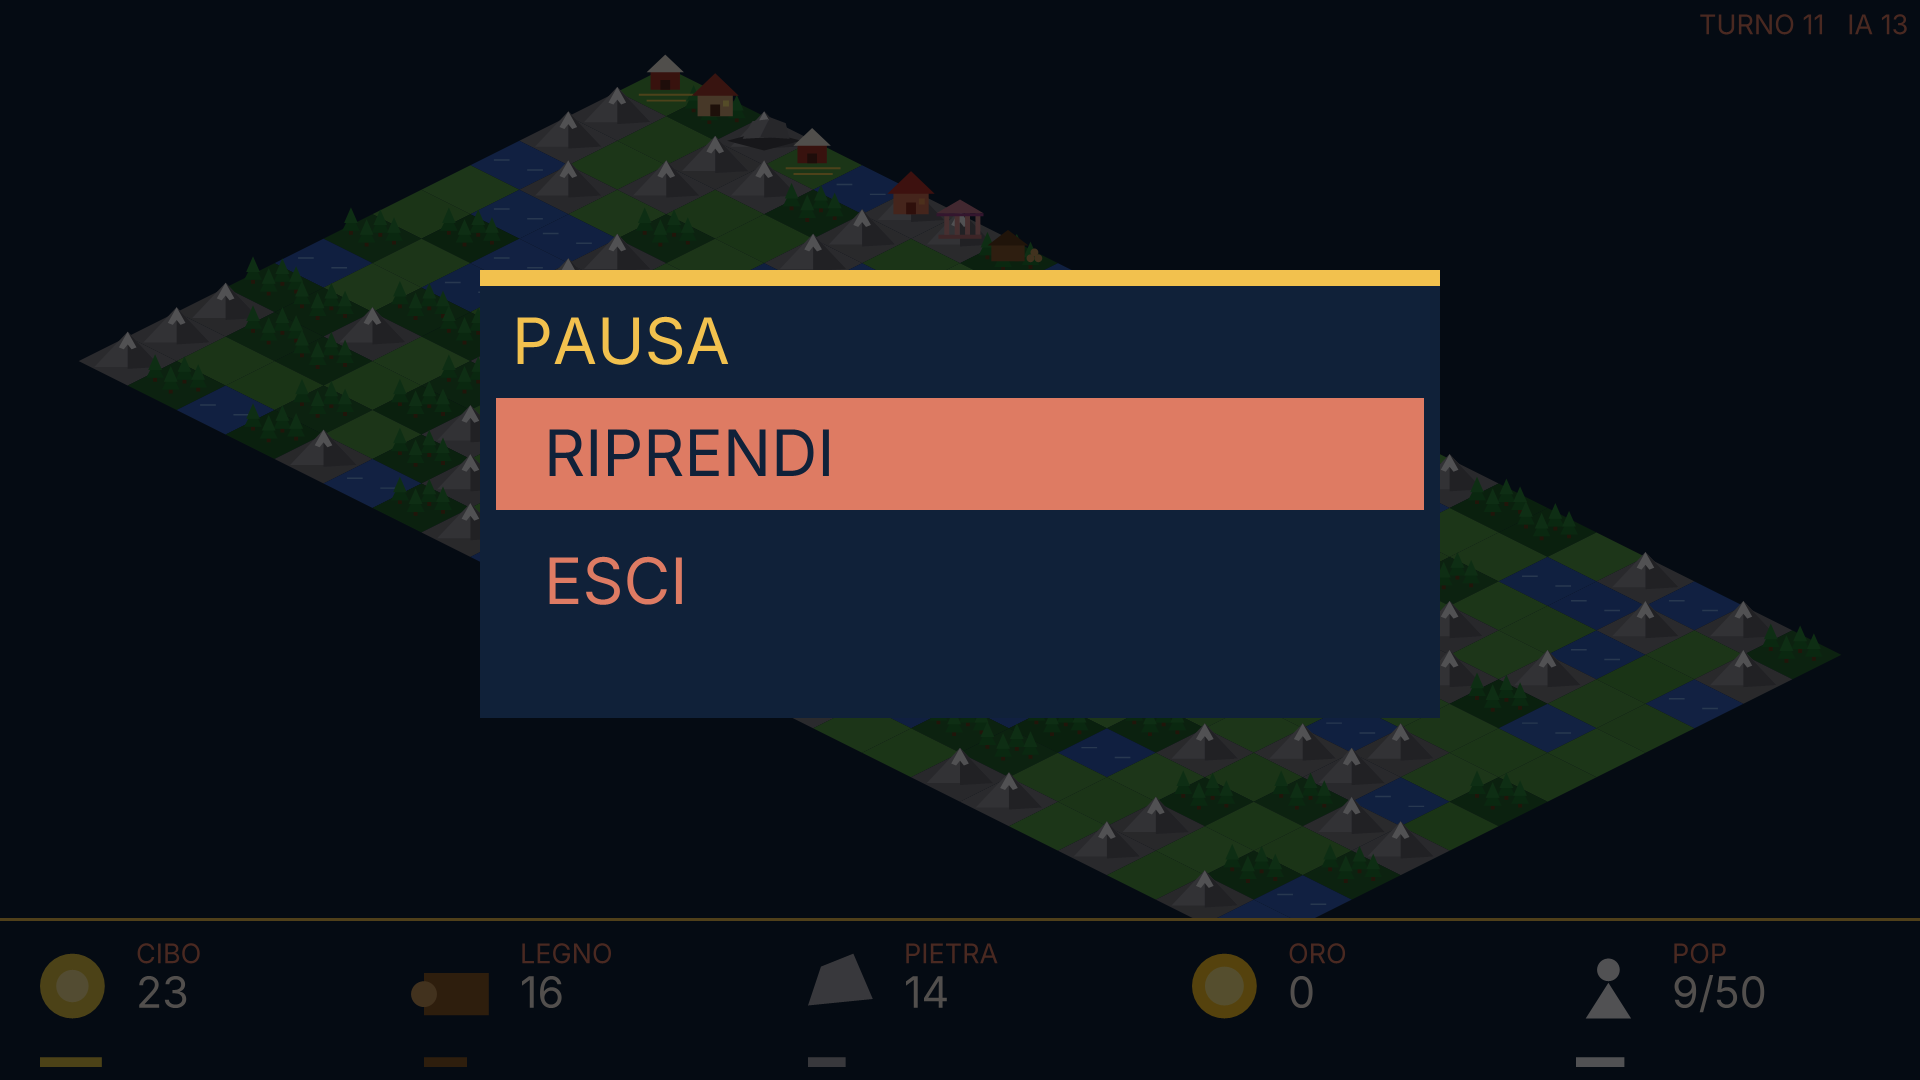
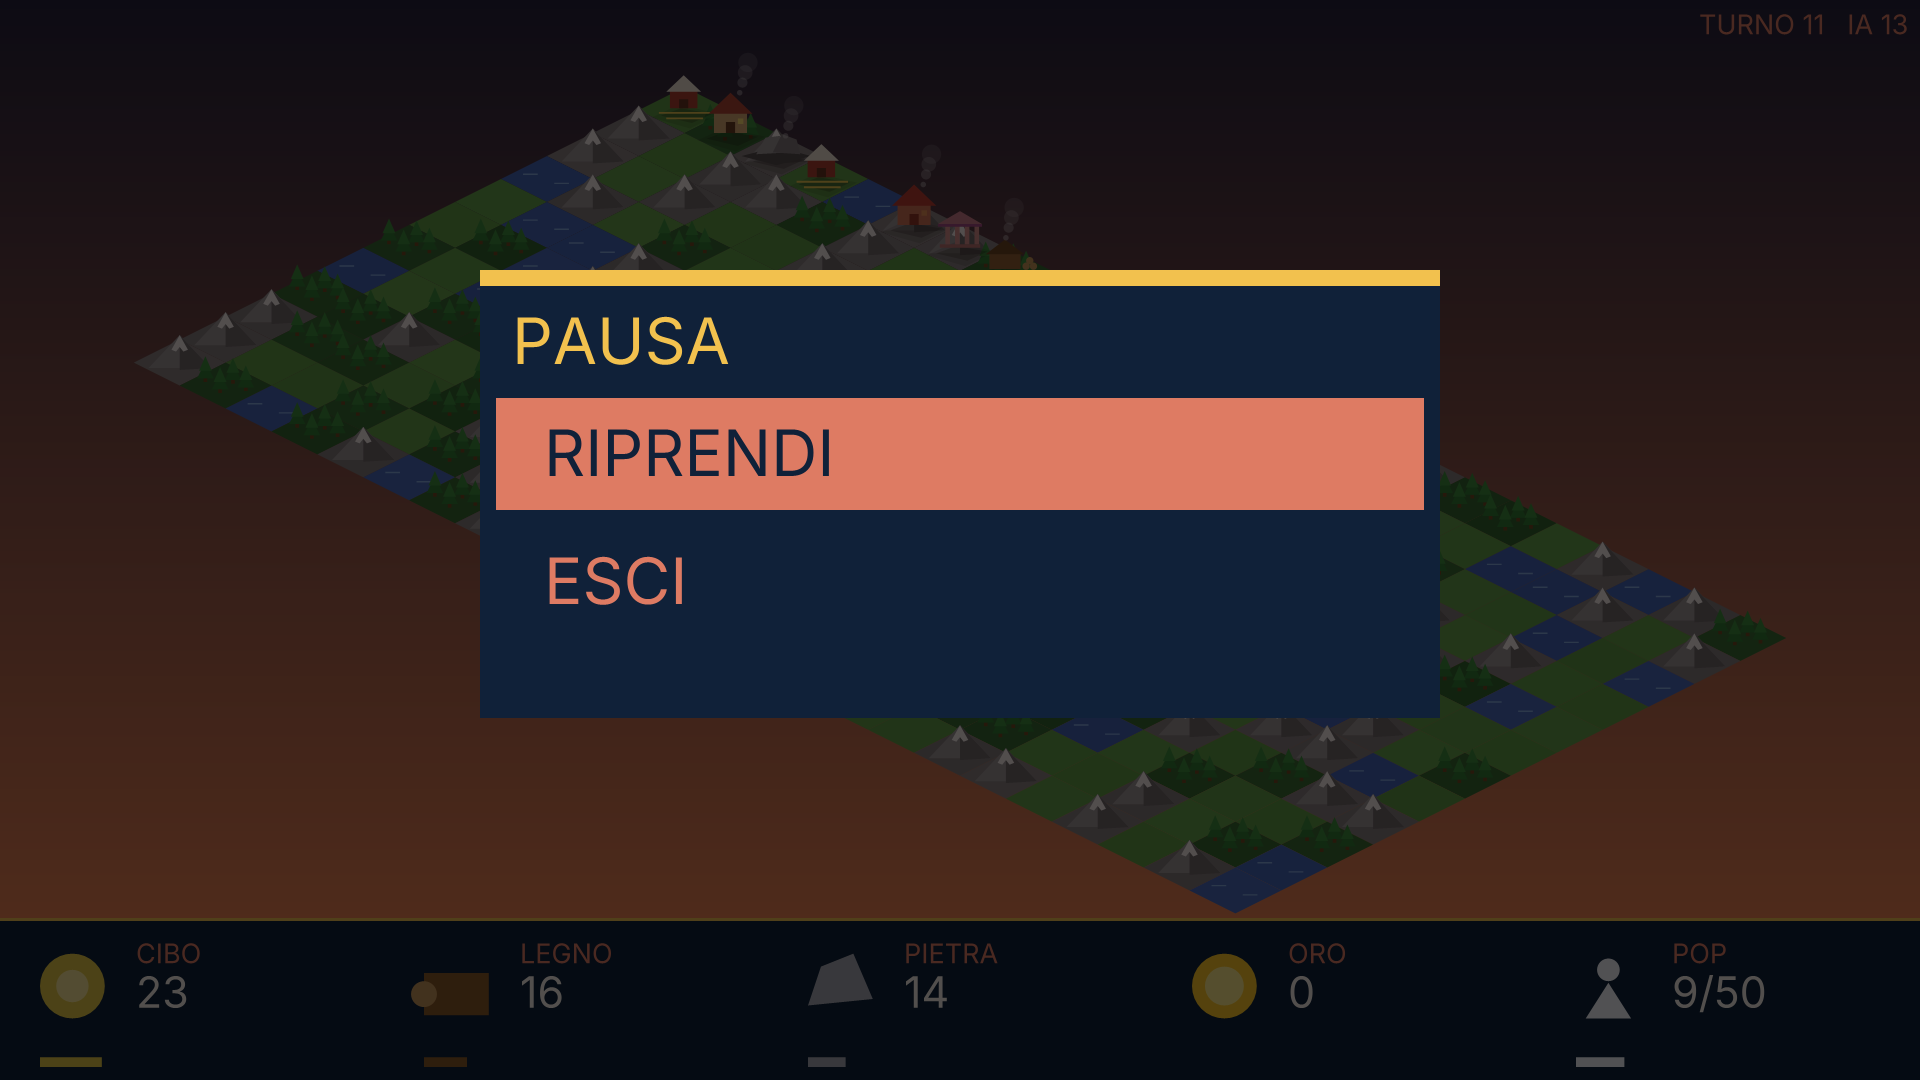
Citybuilder: cielo a gradiente, ombre, fumo, luce serale
Corregge l'altezza della mappa che entrava nell'HUD a 1920x1080 e
crea il frame col colore di sfondo in una sola passata.

Claude-Session: https://claude.ai/code/session_01AVhvvNYTR7MCJe4P3ki9mh

diff --git a/games/citybuilder/src/view.rs b/games/citybuilder/src/view.rs
@@ -15,6 +15,11 @@ const FOREST: Rgb = [34, 100, 46];
 const MOUNTAIN: Rgb = [124, 124, 132];
 const WATER: Rgb = [52, 98, 196];
 const WHEAT: Rgb = [232, 200, 80];
+const SKY_TOP: Rgb = [16, 22, 58];
+const SKY_LOW: Rgb = [236, 128, 84];
+const EVENING: Rgb = [255, 150, 80];
+const SHADOW: Rgb = [0, 0, 0];
+const SMOKE: Rgb = [206, 206, 216];
 
 /// Losanga di una tessera, in unità locali: 100 di larghezza, 50 di altezza, centro in (0, 0).
 const TILE: [(f32, f32); 4] = [(0.0, -25.0), (50.0, 0.0), (0.0, 25.0), (-50.0, 0.0)];
@@ -41,8 +46,17 @@ impl Sprite {
     }
 
     fn poly(&self, f: &mut Frame, pts: &[(f32, f32)], c: Rgb) {
+        self.poly_a(f, pts, c, 1.0);
+    }
+
+    fn poly_a(&self, f: &mut Frame, pts: &[(f32, f32)], c: Rgb, a: f32) {
         let v: Vec<(f32, f32)> = pts.iter().map(|&(x, y)| self.pt(x, y)).collect();
-        f.poly(&v, self.col(c));
+        f.poly_a(&v, self.col(c), a);
+    }
+
+    fn disc(&self, f: &mut Frame, x: f32, y: f32, r: f32, c: Rgb, a: f32) {
+        let (px, py) = self.pt(x, y);
+        f.disc(px, py, r * self.k, c, a);
     }
 
     fn rect(&self, f: &mut Frame, x0: f32, y0: f32, x1: f32, y1: f32, c: Rgb) {
@@ -140,6 +154,20 @@ fn building(f: &mut Frame, s: &Sprite, b: Building) {
     }
 }
 
+/// Ombra morbida a due strati, spostata verso destra in basso (luce da sinistra-alto).
+fn shadow(f: &mut Frame, s: &Sprite) {
+    s.poly_a(f, &[(-36.0, 8.0), (-6.0, -6.0), (38.0, 4.0), (6.0, 20.0)], SHADOW, 0.12);
+    s.poly_a(f, &[(-26.0, 6.0), (-4.0, -2.0), (30.0, 4.0), (8.0, 14.0)], SHADOW, 0.22);
+}
+
+/// Pennacchio di fumo: sfere grigie che salgono e si schiariscono.
+fn smoke(f: &mut Frame, s: &Sprite, x: f32, y: f32) {
+    for i in 0..4 {
+        let fi = i as f32;
+        s.disc(f, x + fi * 3.0, y - fi * 11.0, 3.0 + fi * 2.5, SMOKE, 0.42 - fi * 0.09);
+    }
+}
+
 /// Icona vettoriale di una risorsa: 0 cibo, 1 legno, 2 pietra, 3 oro, 4 popolazione.
 fn icon(f: &mut Frame, kind: usize, cx: f32, cy: f32, r: f32) {
     match kind {
@@ -169,17 +197,18 @@ fn icon(f: &mut Frame, kind: usize, cx: f32, cy: f32, r: f32) {
 /// Disegna la città (terreno, poi edifici in ordine di profondità) e l'HUD in basso.
 /// `w`×`h` è la risoluzione reale: la mappa si adatta alla parte sopra l'HUD.
 pub fn render(g: &Game, w: usize, h: usize) -> Frame {
-    let mut f = Frame::new(w, h);
-    f.fill(Rect::new(0, 0, w as i32, h as i32), Tok::T0);
     let (wf, hf) = (w as f32, h as f32);
     let hud = (hf * 0.15).round();
     let scene = hf - hud;
+    let mut f = Frame::with_fill(w, h, rgb(Tok::T0));
+    f.vgrad(0, scene as usize, SKY_TOP, SKY_LOW);
     let (mw, mh) = (g.map.w as f32, g.map.h as f32);
-    let tw = (2.0 * wf / (mw + mh)).min(4.0 * scene / (mw + mh)) * 0.96;
+    // Altezza della mappa: (mw+mh)·tw/4; margine sopra per edifici alti 0.45·tw.
+    let tw = (2.0 * wf / (mw + mh)).min(scene / ((mw + mh) / 4.0 + 0.6)) * 0.96;
     let th = tw / 2.0;
     let k = tw / 100.0;
     let ox = (wf - (mw + mh) * tw / 2.0) / 2.0 + mh * tw / 2.0;
-    let oy = (scene - (mw + mh) * th / 2.0) / 2.0 + tw * 0.5;
+    let oy = (scene - (mw + mh) * tw / 4.0) / 2.0 + tw * 0.45;
     // Centro della tessera (x, y): vertice alto della losanga più mezza altezza.
     let centre = |x: usize, y: usize| {
         (
@@ -199,16 +228,38 @@ pub fn render(g: &Game, w: usize, h: usize) -> Frame {
     }
     let mut order: Vec<(usize, usize)> = (0..g.map.h).flat_map(|y| (0..g.map.w).map(move |x| (x, y))).collect();
     order.sort_by_key(|&(x, y)| x + y);
-    for (x, y) in order {
+    // Prima tutte le ombre (sul terreno), poi edifici in ordine di profondità, poi il fumo.
+    for &(x, y) in &order {
+        let i = g.map.idx(x, y);
+        if g.player.building_at(i).is_some() || g.rival.building_at(i).is_some() {
+            let (cx, cy) = centre(x, y);
+            shadow(&mut f, &Sprite { cx, cy, k, tint: None });
+        }
+    }
+    let mut chimneys: Vec<(Sprite, f32, f32)> = Vec::new();
+    for &(x, y) in &order {
         let i = g.map.idx(x, y);
         let (cx, cy) = centre(x, y);
         let s = Sprite { cx, cy, k, tint: None };
-        if let Some(b) = g.player.building_at(i) {
-            building(&mut f, &s, b);
-        } else if let Some(b) = g.rival.building_at(i) {
-            building(&mut f, &Sprite { tint: Some(RIVAL), ..s }, b);
+        let (b, tint) = match (g.player.building_at(i), g.rival.building_at(i)) {
+            (Some(b), _) => (b, None),
+            (None, Some(b)) => (b, Some(RIVAL)),
+            _ => continue,
+        };
+        let s = Sprite { tint, ..s };
+        building(&mut f, &s, b);
+        match b {
+            Building::House => chimneys.push((s, 10.0, -44.0)),
+            Building::Lumber => chimneys.push((s, 0.0, -36.0)),
+            Building::Quarry => chimneys.push((s, 10.0, -22.0)),
+            _ => {}
         }
     }
+    for (s, dx, dy) in &chimneys {
+        smoke(&mut f, &Sprite { tint: None, ..*s }, *dx, *dy);
+    }
+    // Luce della sera: velo caldo su tutta la scena (l'HUD viene disegnato dopo).
+    f.tint(EVENING, 0.10);
 
     hud_bar(&mut f, g, scene as i32, hud);
     f
@@ -283,7 +334,7 @@ mod tests {
         let f = render(&g, 800, 480);
         let fondo = rgb(Tok::T0);
         assert!(f.px.iter().any(|&p| p != fondo));
-        assert!(f.px.contains(&GRASS) || f.px.iter().any(|p| p[1] > p[0] + 40));
+        assert!(f.px.contains(&GRASS) || f.px.iter().any(|p| p[1] as i32 > p[0] as i32 + 40));
     }
 
     /// Costo di un fotogramma: `cargo test --release -- --ignored --nocapture bench`.

diff --git a/games/citybuilder/src/raster.rs b/games/citybuilder/src/raster.rs
@@ -33,8 +33,35 @@ impl Frame {
         }
     }
 
+    /// Frame riempito col colore di sfondo, senza passate in più.
+    pub fn with_fill(w: usize, h: usize, c: Rgb) -> Self {
+        Frame { w, h, px: vec![c; w * h] }
+    }
+
+    /// Sfumatura verticale tra `top` (riga `y0`) e `bottom` (riga `y1`, esclusa).
+    pub fn vgrad(&mut self, y0: usize, y1: usize, top: Rgb, bottom: Rgb) {
+        let span = (y1.saturating_sub(y0)).max(1) as f32;
+        for y in y0..y1.min(self.h) {
+            let t = (y - y0) as f32 / span;
+            let c: Rgb = core::array::from_fn(|k| (top[k] as f32 + (bottom[k] as f32 - top[k] as f32) * t) as u8);
+            self.px[y * self.w..(y + 1) * self.w].fill(c);
+        }
+    }
+
+    /// Velo di colore su tutto il frame, con opacità `a`.
+    pub fn tint(&mut self, c: Rgb, a: f32) {
+        for p in &mut self.px {
+            *p = core::array::from_fn(|k| (p[k] as f32 + (c[k] as f32 - p[k] as f32) * a + 0.5) as u8);
+        }
+    }
+
     /// Poligono pieno (regola pari), vertici in ordine, con antialiasing.
     pub fn poly(&mut self, pts: &[(f32, f32)], c: Rgb) {
+        self.poly_a(pts, c, 1.0);
+    }
+
+    /// Come `poly`, con opacità `a` (0..=1).
+    pub fn poly_a(&mut self, pts: &[(f32, f32)], c: Rgb, a: f32) {
         if pts.len() < 3 {
             return;
         }
@@ -82,7 +109,7 @@ impl Frame {
             }
             for (i, &cv) in cov.iter().enumerate() {
                 if cv > 0.0 {
-                    self.mix(xa + i, y, c, cv.min(1.0));
+                    self.mix(xa + i, y, c, (cv * a).min(1.0));
                 }
             }
         }
@@ -94,13 +121,17 @@ impl Frame {
     }
 
     pub fn circle(&mut self, cx: f32, cy: f32, r: f32, c: Rgb) {
+        self.disc(cx, cy, r, c, 1.0);
+    }
+
+    pub fn disc(&mut self, cx: f32, cy: f32, r: f32, c: Rgb, a: f32) {
         let pts: Vec<(f32, f32)> = (0..32)
             .map(|i| {
                 let a = i as f32 * std::f32::consts::TAU / 32.0;
                 (cx + r * a.cos(), cy + r * a.sin())
             })
             .collect();
-        self.poly(&pts, c);
+        self.poly_a(&pts, c, a);
     }
 
     /// Segmento di spessore `w`, come rettangolo ruotato.
